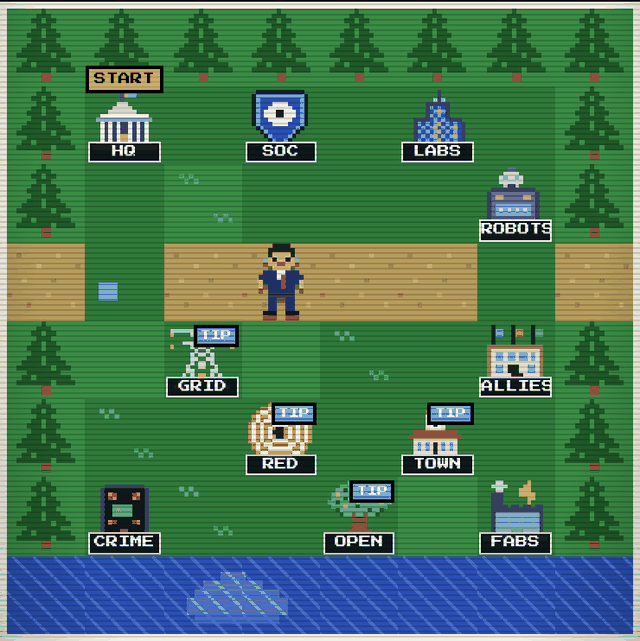
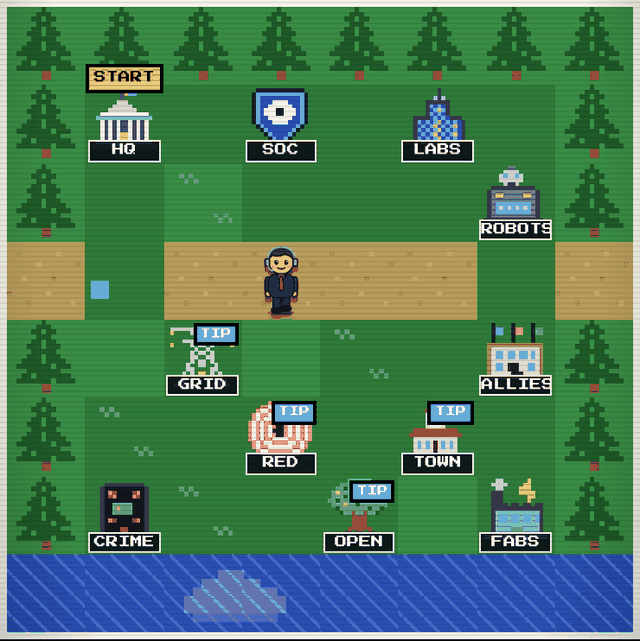
Sharp vector characters (hero, GLITCH, portraits, rival crest); Byte gets a monocle and bow tie
Claude-Session: https://claude.ai/code/session_01NAySH2YJCGXtTVt6Eh8SQy

diff --git a/index.html b/index.html
@@ -229,7 +229,7 @@ button:disabled{opacity:.4}
 .learn dd{font-size:19px;color:#d7d5ea;margin-top:3px}
 .strat{padding-left:22px}.strat li{font-size:19px;color:#d7d5ea;margin-top:8px}.strat b{color:var(--green);font-weight:normal}
 /* ===== SVG pixel art ===== */
-body::after{content:'';position:fixed;inset:0;pointer-events:none;z-index:20;background:repeating-linear-gradient(0deg,rgba(0,0,0,.16) 0 1px,transparent 1px 3px),radial-gradient(ellipse at center,transparent 60%,rgba(0,0,0,.35) 100%)}
+body::after{content:'';position:fixed;inset:0;pointer-events:none;z-index:20;background:repeating-linear-gradient(0deg,rgba(0,0,0,.07) 0 1px,transparent 1px 3px),radial-gradient(ellipse at center,transparent 60%,rgba(0,0,0,.35) 100%)}
 .title{overflow-y:auto;justify-content:flex-start;gap:20px;padding-bottom:36px}
 .scene{width:100%;max-width:520px;aspect-ratio:320/170;border:4px solid var(--line);box-shadow:6px 6px 0 #000;flex-shrink:0;background:#070813}
 .scene>svg{width:100%;height:100%;display:block}
@@ -859,7 +859,22 @@ const HERO_UP=["....hhhh....","...hhhhhh...","...hhhhhh...","..ghhhhhhg..","...h
 const LEGS_A=["...nn..nn...","...nn..nn...","...nn..nn...","..bbb..bbb.."];
 const LEGS_B=["...nn..nn...","..nn....nn..","..nn....nn..",".bbb....bbb."];
 let step=0,facing='down';
-function heroSVG(attrs=''){return spr((facing==='up'?HERO_UP:HERO_DOWN).concat(step%2?LEGS_B:LEGS_A),HERO_PAL,12,16,attrs)}
+function heroSVG(attrs='',pose){const up=facing==='up'&&!pose,st=step%2;
+  const SK='#f1c27d',HR='#4a2b17',SU='#23305e',SU2='#1a2448',OL='#10121f';
+  let o=`<ellipse cx="30" cy="77" rx="15" ry="3" fill="rgba(0,0,0,.35)"/><g stroke="${OL}" stroke-width="1.6" stroke-linejoin="round">`;
+  o+=`<g transform="${st?'translate(0,-2)':''}"><rect x="21" y="56" width="8" height="17" rx="3" fill="${SU2}"/><ellipse cx="25" cy="74" rx="6" ry="3" fill="#141420"/></g>`;
+  o+=`<g transform="${st?'':'translate(0,-2)'}"><rect x="31" y="56" width="8" height="17" rx="3" fill="${SU2}"/><ellipse cx="35" cy="74" rx="6" ry="3" fill="#141420"/></g>`;
+  if(pose==='win')o+=`<path d="M42 40 L53 21" stroke-width="8" stroke-linecap="round"/><path d="M42 40 L53 21" stroke="${SU}" stroke-width="5" stroke-linecap="round"/><circle cx="54" cy="18" r="4.2" fill="${SK}"/>`;
+  else o+=`<rect x="41" y="37" width="7" height="18" rx="3.5" fill="${SU}"/><circle cx="44.5" cy="56" r="3.2" fill="${SK}"/>`;
+  o+=`<rect x="12" y="37" width="7" height="18" rx="3.5" fill="${SU}"/><circle cx="15.5" cy="56" r="3.2" fill="${SK}"/>`;
+  o+=`<rect x="16" y="34" width="28" height="26" rx="8" fill="${SU}"/>`;
+  if(!up)o+=`<path d="M24 34 L30 44 L36 34 Z" fill="#f4f1e6"/><path d="M28.5 37 L31.5 37 L32.5 50 L30 53 L27.5 50 Z" fill="#d33a3a"/>`;
+  o+=`<rect x="26" y="30" width="8" height="6" fill="${SK}"/><circle cx="30" cy="20" r="14" fill="${SK}"/>`;
+  if(up)o+=`<path d="M16 20 A14 14 0 0 1 44 20 L44 27 Q30 33 16 27 Z" fill="${HR}"/>`;
+  else o+=`<path d="M16 19 Q16 5 30 5 Q44 5 44 19 Q40 12 33 12 Q27 15 20 13 Q17 15 16 19 Z" fill="${HR}"/></g><g><ellipse cx="24.5" cy="21" rx="2.2" ry="2.8" fill="${OL}"/><ellipse cx="35.5" cy="21" rx="2.2" ry="2.8" fill="${OL}"/><circle cx="25.2" cy="20" r=".8" fill="#fff"/><circle cx="36.2" cy="20" r=".8" fill="#fff"/><circle cx="21" cy="26" r="2.2" fill="#f2a07b" opacity=".55"/><circle cx="39" cy="26" r="2.2" fill="#f2a07b" opacity=".55"/></g><g stroke="${OL}" stroke-width="1.6" fill="none" stroke-linejoin="round"><path d="M26 27 Q30 ${pose==='win'?31:29.5} 34 27" stroke-linecap="round"/>`;
+  o+=`<path d="M15 20 Q15 4 30 4 Q45 4 45 20" stroke="#9aa3b5" stroke-width="2.2" fill="none"/><rect x="12" y="17" width="5" height="8" rx="2" fill="#9aa3b5"/><rect x="43" y="17" width="5" height="8" rx="2" fill="#9aa3b5"/>`;
+  if(!up)o+=`<path d="M15 24 Q16 31 23 30" stroke="#9aa3b5" stroke-width="1.6" fill="none"/>`;
+  return `<svg ${attrs} viewBox="0 0 60 80">${o}</g></svg>`}
 
 /* portraits: parametric 16x16 faces */
 function face(o){
@@ -888,10 +903,25 @@ const PT={
  red:{hair:'#c03a3a',suit:'#1b1b2f',notie:1,shirt:'#3a3a50',skin:'#e0ac69',glasses:1},
  bots:{hair:'#333',suit:'#6b6b7a',glasses:1,tie:'#5ab0ff',skin:'#c68642'},
  town:{hair:'#5a3a2a',suit:'#2f7a3a',tie:'#f7c948',skin:'#8d5524',long:1},
- red:{hair:'#222',suit:'#5a2a2a',cap:1,capc:'#4a1f1f',badge:'#f7c948',tie:'#5a2a2a',shirt:'#3a1a1a'},
 };
-const glitchSVG=(a='')=>spr(SPR.glitch.rows,SPR.glitch.pal,16,20,a);
-function portrait(k){if(k==='glitch')return glitchSVG();if(k==='rival')return spr(SPR.soc.rows,{k:'#1b1b2f',b:'#ff5c5c',B:'#8a1c1c',w:'#f7c948',e:'#8a1c1c'},16,16);const o=PT[k];return spr(face(o),{H:o.hair,S:o.skin||'#f1c27d',E:'#1b1b2f',M:'#a0522d',C:o.suit,w:o.shirt||'#f4f1e6',T:o.tie||'#d33a3a',G:'#9aa3b5',K:'#111',P:o.capc,y:o.badge||'#f7c948',B:o.hair},16,16)}
+const glitchSVG=(a='')=>{const OL='#10261f',Y='#f8f0a0';let t='',b='';[32,40,48,56,64].forEach(x=>t+=`<path d="M${x} 59 L${x+3.5} 67 L${x+7} 59 Z"/>`);[35,43.5,52,60.5].forEach(x=>b+=`<path d="M${x} 82 L${x+3.5} 74 L${x+7} 82 Z"/>`);
+  return `<svg ${a} viewBox="0 0 100 120"><ellipse cx="50" cy="116" rx="30" ry="3.5" fill="rgba(0,0,0,.3)"/><g stroke="${OL}" stroke-width="4" stroke-linejoin="round" fill="${Y}"><path d="M22 32 L17 6 L41 20 Z"/><path d="M78 32 L83 6 L59 20 Z"/><path d="M30 100 L30 114 L45 114 L45 100"/><path d="M55 100 L55 114 L70 114 L70 100"/><path d="M14 52 Q14 14 50 14 Q86 14 86 52 L88 96 Q88 106 76 106 L24 106 Q12 106 12 96 Z"/><path d="M15 60 Q3 80 8 98 Q14 101 19 96"/><path d="M85 60 Q97 80 92 98 Q86 101 81 96"/><circle cx="36" cy="38" r="12" fill="#fff"/><circle cx="64" cy="38" r="12" fill="#fff"/></g><circle cx="40" cy="40" r="5.5" fill="${OL}"/><circle cx="68" cy="40" r="5.5" fill="${OL}"/><circle cx="41.5" cy="38.2" r="1.6" fill="#fff"/><circle cx="69.5" cy="38.2" r="1.6" fill="#fff"/><ellipse cx="50" cy="70" rx="22" ry="15" fill="${OL}"/><g fill="#fff">${t}${b}</g></svg>`};
+function vportrait(o){const SK=o.skin||'#f1c27d',HR=o.hair,SU=o.suit,SH=o.shirt||'#f4f1e6',TI=o.tie||'#d33a3a',OL='#10121f';let v='';
+  if(o.long)v+=`<path d="M23 40 Q20 82 30 86 L70 86 Q80 82 77 40 Z" fill="${HR}" stroke="${OL}" stroke-width="2"/>`;
+  v+=`<path d="M6 100 Q9 74 50 72 Q91 74 94 100 Z" fill="${SU}" stroke="${OL}" stroke-width="2"/><path d="M40 73 L50 90 L60 73 Z" fill="${SH}" stroke="${OL}" stroke-width="1.5"/>`;
+  if(!o.notie)v+=`<path d="M47.5 76 L52.5 76 L54 92 L50 97 L46 92 Z" fill="${TI}" stroke="${OL}" stroke-width="1.5"/>`;
+  v+=`<rect x="43" y="60" width="14" height="14" fill="${SK}" stroke="${OL}" stroke-width="2"/><circle cx="26" cy="47" r="5" fill="${SK}" stroke="${OL}" stroke-width="2"/><circle cx="74" cy="47" r="5" fill="${SK}" stroke="${OL}" stroke-width="2"/><ellipse cx="50" cy="44" rx="24" ry="26" fill="${SK}" stroke="${OL}" stroke-width="2"/>`;
+  if(o.beard)v+=`<path d="M27 48 Q28 73 50 73 Q72 73 73 48 Q67 61 50 61 Q33 61 27 48 Z" fill="${HR}" stroke="${OL}" stroke-width="2"/>`;
+  if(o.cap)v+=`<path d="M25 36 Q26 13 50 13 Q74 13 75 36 Z" fill="${o.capc}" stroke="${OL}" stroke-width="2"/><path d="M21 35 L79 35 L82 41 L18 41 Z" fill="#1b1b2f"/><circle cx="50" cy="25" r="4.5" fill="${o.badge||'#f7c948'}" stroke="${OL}" stroke-width="1.5"/>`;
+  else v+=`<path d="M26 44 Q22 15 50 15 Q78 15 74 44 Q71 29 59 26 Q47 31 35 27 Q29 33 26 44 Z" fill="${HR}" stroke="${OL}" stroke-width="2"/>`;
+  if(o.shades)v+=`<rect x="33" y="41" width="15" height="9" rx="3" fill="#111"/><rect x="52" y="41" width="15" height="9" rx="3" fill="#111"/><path d="M48 44 L52 44" stroke="#111" stroke-width="2"/><path d="M36 43 L41 43" stroke="#555" stroke-width="1.5"/>`;
+  else v+=`<ellipse cx="41" cy="46" rx="2.6" ry="3.3" fill="${OL}"/><ellipse cx="59" cy="46" rx="2.6" ry="3.3" fill="${OL}"/><circle cx="41.8" cy="45" r=".9" fill="#fff"/><circle cx="59.8" cy="45" r=".9" fill="#fff"/><path d="M36 39 Q41 36.5 46 39 M54 39 Q59 36.5 64 39" stroke="${o.cap?OL:HR}" stroke-width="2" fill="none" stroke-linecap="round"/>`;
+  if(o.glasses)v+=`<circle cx="41" cy="46" r="6.5" fill="rgba(255,255,255,.15)" stroke="#2a2a2a" stroke-width="2"/><circle cx="59" cy="46" r="6.5" fill="rgba(255,255,255,.15)" stroke="#2a2a2a" stroke-width="2"/><path d="M47.5 46 L52.5 46" stroke="#2a2a2a" stroke-width="2"/>`;
+  v+=`<path d="M50 48 L47.5 54 L51 54.5" stroke="${OL}" stroke-width="1.6" fill="none" stroke-linejoin="round"/><path d="M44 59 Q50 63 56 59" stroke="${OL}" stroke-width="2" fill="none" stroke-linecap="round"/><circle cx="34" cy="54" r="3" fill="#f2a07b" opacity=".35"/><circle cx="66" cy="54" r="3" fill="#f2a07b" opacity=".35"/>`;
+  if(o.headset)v+=`<path d="M24 44 Q24 12 50 12 Q76 12 76 44" stroke="#9aa3b5" stroke-width="3" fill="none"/><rect x="20" y="40" width="7" height="12" rx="3" fill="#9aa3b5" stroke="${OL}" stroke-width="1.5"/><path d="M24 52 Q26 62 38 60" stroke="#9aa3b5" stroke-width="2" fill="none"/>`;
+  return `<svg viewBox="0 0 100 100">${v}</svg>`}
+const RIVAL_CREST=`<svg viewBox="0 0 100 100"><path d="M50 8 L86 20 L82 58 Q76 82 50 94 Q24 82 18 58 L14 20 Z" fill="#ff5c5c" stroke="#10121f" stroke-width="3" stroke-linejoin="round"/><path d="M50 18 L76 27 L73 56 Q68 74 50 83 Q32 74 27 56 L24 27 Z" fill="#8a1c1c"/><circle cx="50" cy="50" r="16" fill="none" stroke="#f7c948" stroke-width="6"/><circle cx="50" cy="50" r="6" fill="#f7c948"/></svg>`;
+function portrait(k){if(k==='glitch')return glitchSVG();if(k==='rival')return RIVAL_CREST;return vportrait(PT[k])}
 
 /* title scene: two cities, packets crossing in both directions */
 function titleScene(){
@@ -910,7 +940,7 @@ function titleScene(){
     o+=`<rect x="-1.5" y="-1.5" width="3" height="3" fill="#5ab0ff"><animateMotion dur="${d.toFixed(1)}s" repeatCount="indefinite" path="${pth}"/></rect>`;
     o+=`<rect x="-1.5" y="-1.5" width="3" height="3" fill="#ff5c5c"><animateMotion dur="${(d*1.3).toFixed(1)}s" repeatCount="indefinite" path="${pth}" keyPoints="1;0" keyTimes="0;1" calcMode="linear"/></rect>`}
   o+='<rect y="150" width="320" height="20" fill="#0b0d1a"/><rect y="150" width="320" height="1" fill="#b28bff" opacity=".6"/>';
-  o+=heroSVG('x="140" y="133" width="16" height="18"');
+  o+=heroSVG('x="140" y="128" width="17" height="23"');
   o+=`<g>${glitchSVG('x="166" y="129" width="18" height="22"')}<animateTransform attributeName="transform" type="translate" values="0 0;0 -2;0 0" dur=".7s" calcMode="discrete" repeatCount="indefinite"/></g>`;
   o+='<text x="40" y="164" font-family="Press Start 2P" font-size="6" fill="#5ab0ff">YOU</text><text x="246" y="164" font-family="Press Start 2P" font-size="6" fill="#ff5c5c">RIVAL</text>';
   document.getElementById('scene').innerHTML=`<svg viewBox="0 0 320 170" shape-rendering="crispEdges" preserveAspectRatio="xMidYMid slice"><defs><linearGradient id="sky" x1="0" y1="0" x2="0" y2="1"><stop offset="0" stop-color="#070813"/><stop offset="1" stop-color="#3a1a4a"/></linearGradient></defs>${o}</svg>`;
@@ -1313,7 +1343,8 @@ const DOG_PAL={b:'#c8893a',d:'#8a5a22',w:'#f4f1e6',k:'#1b1b2f',n:'#111',g:'#6b4a
 const DOG=["..dd.......dd...",".dbbd.....dbbd..",".dbbbd...dbbbd..","..dbbbbbbbbbd...","..bbbbbbbbbbb...","..bbsbbbbbsbb...","..bskkbbbbkksb..","..bskkbbbbkksb..","..bbbbbbbbbbb...","..bbbwbnnbwbb...","...bbbnnnbbb....","...bbwwwwbbb....","....brrrbb......",".....bbbb.......","...yyyyyyyy.....","...y.ykky.y....."];
 const DOG_TALK=["..dd.......dd...",".dbbd.....dbbd..",".dbbbd...dbbbd..","..dbbbbbbbbbd...","..bbbbbbbbbbb...","..bbsbbbbbsbb...","..bskkbbbbkksb..","..bskkbbbbkksb..","..bbbbbbbbbbb...","..bbbwbnnbwbb...","...bbbnnnbbb....","...bbwwkwwbb....","....brrrbb......",".....bbbb.......","...yyyyyyyy.....","...y.ykky.y....."];
 let dogFrame=0;
-function dogSVG(a=''){return spr(dogFrame%2?DOG_TALK:DOG,DOG_PAL,16,16,a)}
+function dogSVG(a=''){const F='#c8893a',D='#8a5a22',W='#f4ead8',OL='#2a1a0e',talk=dogFrame%2;
+  return `<svg ${a} viewBox="0 0 100 100"><g stroke="${OL}" stroke-width="2.5" stroke-linejoin="round"><path d="M16 100 Q19 76 50 74 Q81 76 84 100 Z" fill="#3a4a6a"/><path d="M38 79 L50 85 L38 91 Z M62 79 L50 85 L62 91 Z" fill="#d33a3a"/><circle cx="50" cy="85" r="3.2" fill="#a02020"/><path d="M25 25 Q7 29 11 58 Q20 63 29 50 Z" fill="${D}"/><path d="M75 25 Q93 29 89 58 Q80 63 71 50 Z" fill="${D}"/><ellipse cx="50" cy="44" rx="27" ry="26" fill="${F}"/><ellipse cx="50" cy="58" rx="15" ry="11" fill="${W}"/><ellipse cx="50" cy="52" rx="5.5" ry="4" fill="${OL}"/><path d="M50 56 L50 60.5 M44 61.5 Q50 65.5 56 61.5" fill="none" stroke-linecap="round"/></g>${talk?`<ellipse cx="50" cy="64.5" rx="3.6" ry="2.6" fill="#d35a6a" stroke="${OL}" stroke-width="1.5"/>`:''}<circle cx="47.7" cy="51" r="1.2" fill="#fff" opacity=".7"/><path d="M33 33 Q38.5 30 44 33" stroke="${OL}" stroke-width="2.4" fill="none" stroke-linecap="round"/><path d="M55 30 Q60.5 25.5 67 29" stroke="${OL}" stroke-width="2.4" fill="none" stroke-linecap="round"/><ellipse cx="39" cy="40" rx="3.3" ry="4.1" fill="${OL}"/><circle cx="40" cy="38.8" r="1.1" fill="#fff"/><ellipse cx="61" cy="40" rx="3.6" ry="4.4" fill="${OL}"/><circle cx="62.1" cy="38.6" r="1.2" fill="#fff"/><circle cx="61" cy="40" r="9.5" fill="rgba(170,220,255,.32)" stroke="#f7c948" stroke-width="3.2"/><path d="M55 35.5 Q58 32.5 62.5 32.5" stroke="#fff" stroke-width="1.6" fill="none" stroke-linecap="round" opacity=".9"/><path d="M69.5 45 Q78 60 67 73" stroke="#f7c948" stroke-width="1.6" fill="none" stroke-dasharray="2.2 1.6"/></svg>`}
 function dogHTML(label,body,mood){dogFrame++;return `<div class="dog"><div class="dogpt">${dogSVG()}</div><div class="dogbub"><span class="doglb">🐾 BYTE${label?' · '+label:''}</span>${body}</div></div>`}
 const DOG_LINES={tips:['Sniffed out the priorities.','Nose says: start here.','Trust the nose.'],math:['I ran the numbers. Good dog.','Crunched it between naps.'],review:['Here is what I saw from under the desk.','Round over. Field notes:'],card:['Let me sniff this one.'],crisis:['Ears up. Here is my read.']};
 const dogLine=k=>DOG_LINES[k][Math.floor(Math.random()*DOG_LINES[k].length)];
@@ -1622,7 +1653,7 @@ function finale(){const E=ending(),win=E.k==='ABUNDANCE',m=S.m;const f=document.
   const perfect=win&&m.harm<20&&m.equity>=55&&!S.insiders&&!S.thefts;
   if(win){SFX.fanfare();setTimeout(SFX.fanfare,700);
     f.innerHTML=`${confetti()}<div class="big" style="color:#f7c948">YOU WIN</div>${perfect?'<div class="sub2" style="color:#4bd37b">★ PERFECT ★</div>':''}<div class="sub2">THE FUTURE: <span style="color:#4bd37b">ABUNDANCE</span></div>
-      <div class="pose">${spr(HERO_WIN.concat(LEGS_A),HERO_PAL,12,16,'width="100%" height="100%"')}</div><div class="podium"></div>
+      <div class="pose">${heroSVG('width="100%" height="100%"','win')}</div><div class="podium"></div>
       <div class="fbtn"><button class="a" onclick="finaleStories()">A · CONTINUE</button></div>`}
   else{const dead=!!S.dead;SFX.bad();
     const title=dead||E.k==='FRACTURE'?'GAME OVER':E.k==='GILDED AGE'?'YOU SURVIVED':'STALEMATE';const col=dead||E.k==='FRACTURE'?'#ff5c5c':E.k==='GILDED AGE'?'#f7c948':'#5ab0ff';
@@ -1638,7 +1669,7 @@ const STORYPT={
  nurse:{hair:'#222',suit:'#5ab0ff',skin:'#8d5524',notie:1,shirt:'#5ab0ff',long:1},
  teen:{hair:'#e8c860',suit:'#ff8fd1',skin:'#f1c27d',notie:1,shirt:'#ff8fd1',long:1},
  owner:{hair:'#5a3a2a',suit:'#9be15d',skin:'#c68642',beard:1,notie:1,shirt:'#9be15d'}};
-function storyFace(k){const o=STORYPT[k];return spr(face(o),{H:o.hair,S:o.skin,E:'#1b1b2f',M:'#a0522d',C:o.suit,w:o.shirt||'#f4f1e6',T:o.tie||'#d33a3a',G:'#9aa3b5',K:'#111',P:o.capc,y:o.badge||'#f7c948',B:o.hair},16,16)}
+function storyFace(k){return vportrait(STORYPT[k])}
 function stories(){const m=S.m,st=[];
   if(m.good>=60)st.push(['maria','dna','MARIA, 54 · CANCER SURVIVOR','An SI-designed drug, fast-tracked into trials, sent her pancreatic cancer into remission. Her doctors call it a decade of progress in two years.']);
   if(m.good>=55&&m.botsafe>=50)st.push(['okafor','robot','MR. OKAFOR, 81 · RETIRED TEACHER','He still lives in his own home. A certified humanoid aide helps him cook, lifts him safely and calls his daughter when something is off.']);
@@ -1749,7 +1780,7 @@ function carGo(d){const c=document.getElementById('car');const n=c.children.leng
   const upd=()=>{const k=Math.round(c.scrollLeft/(c.clientWidth+12));dots.querySelectorAll('i').forEach((e,j)=>e.classList.toggle('on',j===k))};
   c.addEventListener('scroll',upd,{passive:true});upd();
   const ch=document.getElementById('castHero');if(ch)ch.innerHTML=heroSVG('width="100%" height="100%"');const cd=document.getElementById('castDog');if(cd)cd.innerHTML=dogSVG('width="100%" height="100%"');const cg=document.getElementById('castGlitch');if(cg)cg.innerHTML=glitchSVG('width="100%" height="100%"');
-  const w=document.getElementById('winpose');if(w)w.innerHTML=spr(HERO_WIN.concat(LEGS_A),HERO_PAL,12,16,'width="100%" height="100%"');})();
+  const w=document.getElementById('winpose');if(w)w.innerHTML=heroSVG('width="100%" height="100%"','win');})();
 </script>
 </body>
 </html>
